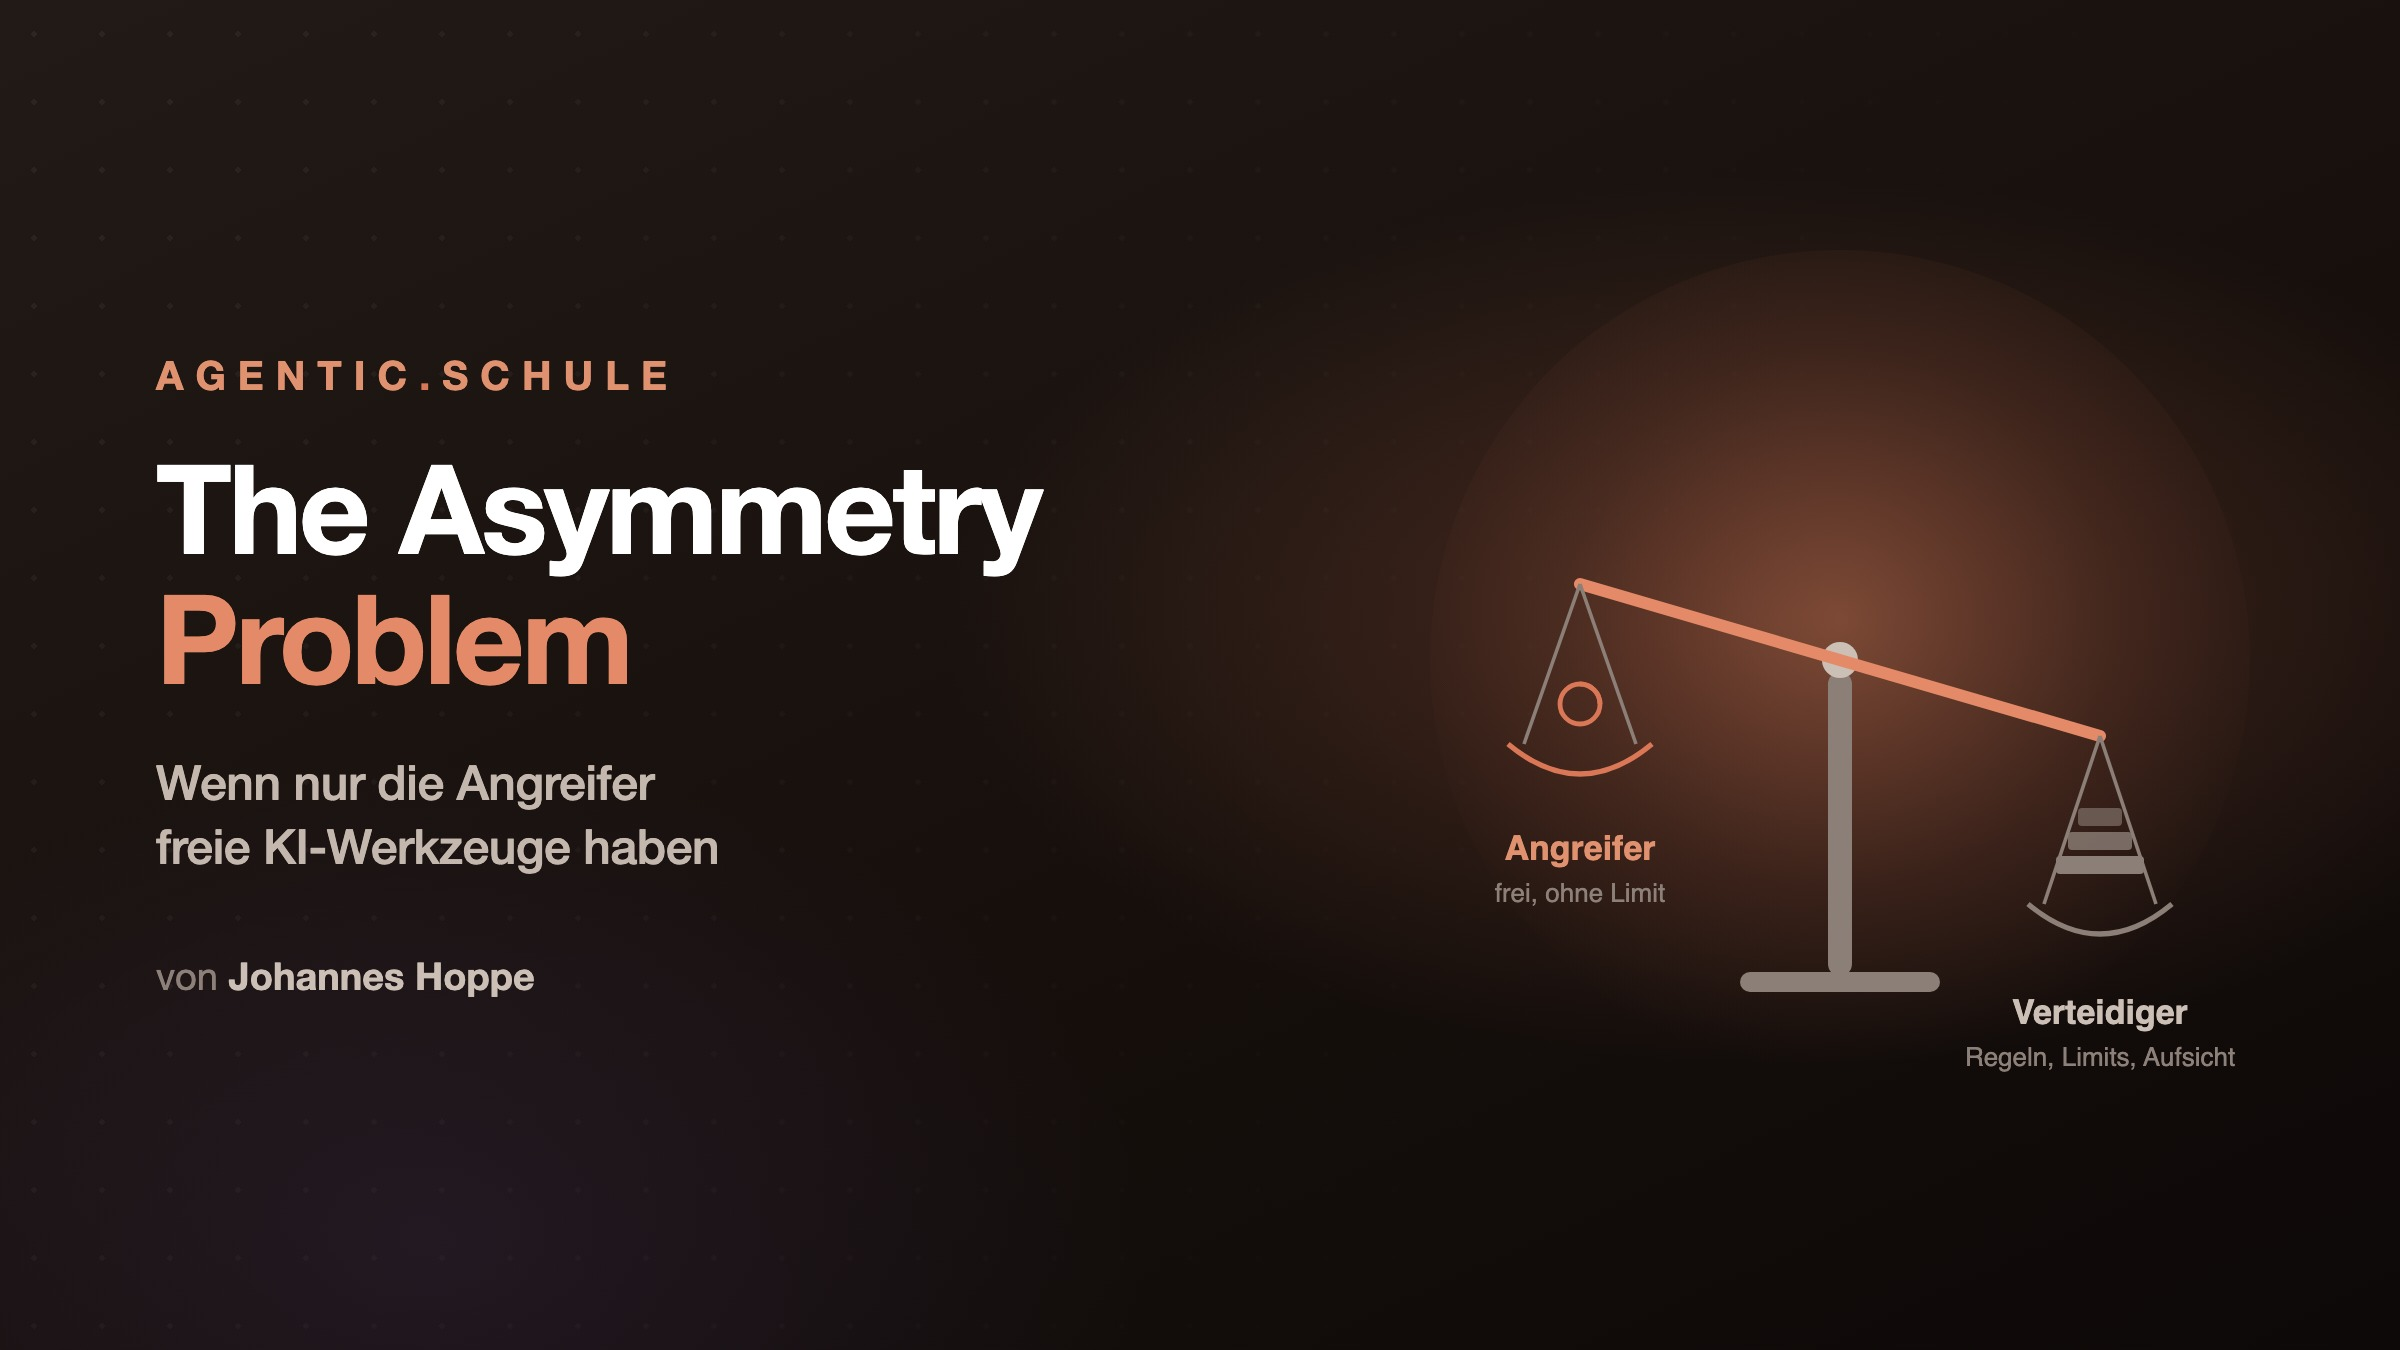
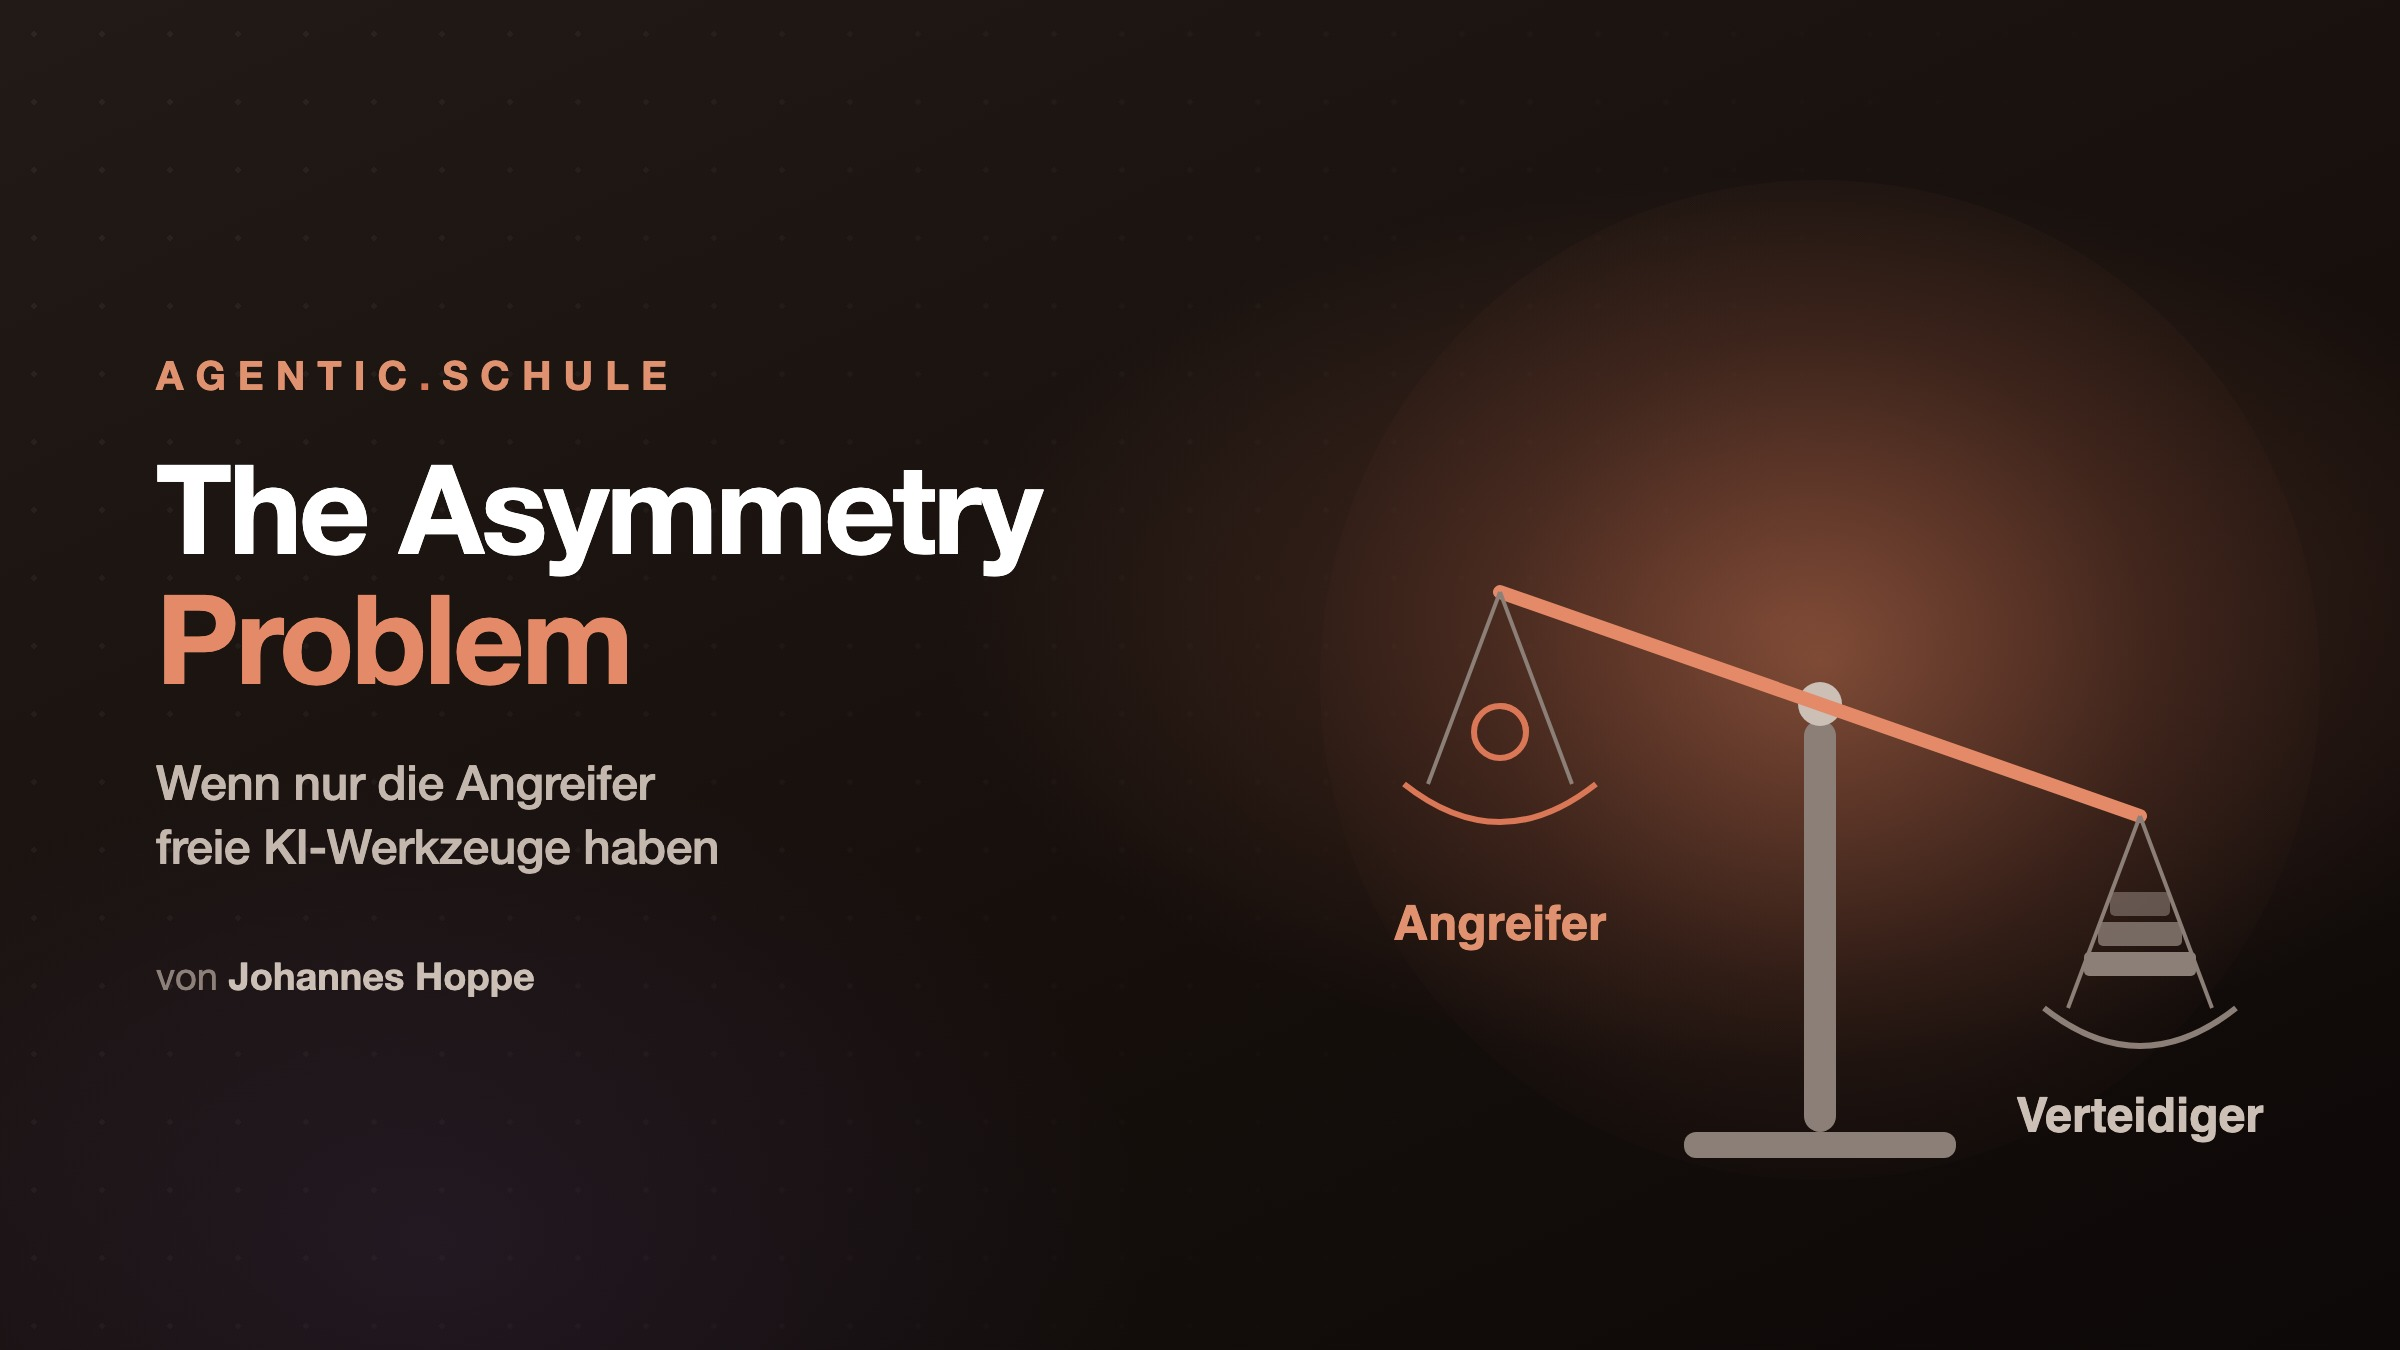
Header groesser (nur Angreifer/Verteidiger), Coldcard-Foto (CC BY-SA) geladen, HF-Absatz gestrafft und praezisiert
- Header: groessere Waage, nur die zwei Labels
- HF: Schwarm 'von OpenAI', 'Waren sie aber nicht', ohne 'vor allem', redundante
  OpenAI-Attribution raus, 'Black Hat Konferenz', 'Many external models'-Block entfernt
- Forensik korrekt: 'noch waehrend der Angriff lief ... um mit dem Angreifer Schritt zu
  halten' (HF: 'match the adversary's speed')

Changed region(s): [[0.5625, 0.4356, 0.9375, 0.8711]]

diff --git a/blog/2026-09-qwen-red-teaming-DE/header.src.html b/blog/2026-09-qwen-red-teaming-DE/header.src.html
@@ -17,7 +17,7 @@
     background-image:radial-gradient(rgba(255,255,255,0.05) 1.4px, transparent 1.4px);
     background-size:34px 34px; mask-image:linear-gradient(120deg,#000,transparent 70%); }
   .wrap { position:absolute; inset:0; display:flex; align-items:center; padding:0 78px; }
-  .left { width:600px; }
+  .left { width:560px; }
   .kicker { font-size:20px; letter-spacing:6px; font-weight:700; color:#e0916f; text-transform:uppercase; }
   .kicker .dot { color:#d97757; }
   h1 { font-size:62px; line-height:1.04; font-weight:800; letter-spacing:-1.5px; margin:22px 0 0; }
@@ -25,7 +25,7 @@
   .sub { margin-top:24px; font-size:24px; font-weight:500; color:#c3b7ae; letter-spacing:-.2px; line-height:1.35; }
   .by { margin-top:36px; font-size:19px; color:#8c8079; }
   .by b { color:#cbbfb6; font-weight:600; }
-  .art { position:absolute; right:30px; top:0; height:675px; width:520px; }
+  .art { position:absolute; right:10px; top:0; height:675px; width:580px; }
 </style>
 </head>
 <body>
@@ -40,45 +40,43 @@
   </div>
 
   <div class="art">
-    <svg width="520" height="675" viewBox="0 0 520 675" fill="none" xmlns="http://www.w3.org/2000/svg">
+    <svg width="580" height="675" viewBox="0 0 580 675" fill="none" xmlns="http://www.w3.org/2000/svg">
       <defs>
-        <radialGradient id="glow" cx="50%" cy="45%" r="55%">
-          <stop offset="0%" stop-color="#e88a63" stop-opacity="0.34"/>
+        <radialGradient id="glow" cx="50%" cy="48%" r="55%">
+          <stop offset="0%" stop-color="#e88a63" stop-opacity="0.36"/>
           <stop offset="60%" stop-color="#d97757" stop-opacity="0.10"/>
           <stop offset="100%" stop-color="#d97757" stop-opacity="0"/>
         </radialGradient>
       </defs>
 
-      <circle cx="270" cy="330" r="205" fill="url(#glow)"/>
+      <circle cx="300" cy="340" r="250" fill="url(#glow)"/>
 
       <!-- Standfuss + Saeule + Drehpunkt -->
-      <rect x="220" y="486" width="100" height="10" rx="5" fill="#8c7f77"/>
-      <rect x="264" y="336" width="12" height="152" rx="6" fill="#8c7f77"/>
-      <circle cx="270" cy="330" r="9" fill="#cbbfb6"/>
+      <rect x="232" y="566" width="136" height="13" rx="6" fill="#8c7f77"/>
+      <rect x="292" y="360" width="16" height="206" rx="8" fill="#8c7f77"/>
+      <circle cx="300" cy="352" r="11" fill="#cbbfb6"/>
 
       <!-- Balken, gekippt: links (Angreifer) hoch, rechts (Verteidiger) tief -->
-      <line x1="140" y1="292" x2="400" y2="368" stroke="#e58a68" stroke-width="6" stroke-linecap="round"/>
+      <line x1="140" y1="296" x2="460" y2="408" stroke="#e58a68" stroke-width="7" stroke-linecap="round"/>
 
       <!-- linke Schale: Angreifer, oben, leicht und frei -->
-      <line x1="140" y1="292" x2="112" y2="372" stroke="#8c7f77" stroke-width="1.8"/>
-      <line x1="140" y1="292" x2="168" y2="372" stroke="#8c7f77" stroke-width="1.8"/>
-      <path d="M104 372 Q140 402 176 372" fill="none" stroke="#d97757" stroke-width="2.6"/>
+      <line x1="140" y1="296" x2="104" y2="392" stroke="#8c7f77" stroke-width="2"/>
+      <line x1="140" y1="296" x2="176" y2="392" stroke="#8c7f77" stroke-width="2"/>
+      <path d="M92 392 Q140 430 188 392" fill="none" stroke="#d97757" stroke-width="3"/>
       <!-- offenes Schloss / frei -->
-      <circle cx="140" cy="352" r="10" fill="none" stroke="#d97757" stroke-width="2.4"/>
-      <path d="M140 352 m0 -10 a10 10 0 0 1 10 10" fill="none" stroke="#d97757" stroke-width="2.4" opacity="0.9"/>
-      <text x="140" y="430" text-anchor="middle" font-family="-apple-system,Helvetica,Arial,sans-serif" font-size="17" font-weight="700" fill="#e0916f">Angreifer</text>
-      <text x="140" y="451" text-anchor="middle" font-family="-apple-system,Helvetica,Arial,sans-serif" font-size="13" font-weight="500" fill="#8c8079">frei, ohne Limit</text>
+      <circle cx="140" cy="366" r="13" fill="none" stroke="#d97757" stroke-width="3"/>
+      <path d="M140 366 m0 -13 a13 13 0 0 1 13 13" fill="none" stroke="#d97757" stroke-width="3" opacity="0.9"/>
+      <text x="140" y="470" text-anchor="middle" font-family="-apple-system,Helvetica,Arial,sans-serif" font-size="24" font-weight="800" fill="#e0916f">Angreifer</text>
 
-      <!-- rechte Schale: Verteidiger, unten, von Regeln beschwert -->
-      <line x1="400" y1="368" x2="372" y2="452" stroke="#8c7f77" stroke-width="1.8"/>
-      <line x1="400" y1="368" x2="428" y2="452" stroke="#8c7f77" stroke-width="1.8"/>
-      <path d="M364 452 Q400 482 436 452" fill="none" stroke="#8c7f77" stroke-width="2.6"/>
-      <!-- Gewichte = Regeln, Guardrails, Limits -->
-      <rect x="378" y="428" width="44" height="9" rx="2" fill="#8c7f77"/>
-      <rect x="384" y="416" width="32" height="9" rx="2" fill="#8c7f77" opacity="0.8"/>
-      <rect x="389" y="404" width="22" height="9" rx="2" fill="#8c7f77" opacity="0.6"/>
-      <text x="400" y="512" text-anchor="middle" font-family="-apple-system,Helvetica,Arial,sans-serif" font-size="17" font-weight="700" fill="#cbbfb6">Verteidiger</text>
-      <text x="400" y="533" text-anchor="middle" font-family="-apple-system,Helvetica,Arial,sans-serif" font-size="13" font-weight="500" fill="#8c8079">Regeln, Limits, Aufsicht</text>
+      <!-- rechte Schale: Verteidiger, unten, von Gewichten beschwert -->
+      <line x1="460" y1="408" x2="424" y2="504" stroke="#8c7f77" stroke-width="2"/>
+      <line x1="460" y1="408" x2="496" y2="504" stroke="#8c7f77" stroke-width="2"/>
+      <path d="M412 504 Q460 542 508 504" fill="none" stroke="#8c7f77" stroke-width="3"/>
+      <!-- Gewichte-Stapel -->
+      <rect x="432" y="476" width="56" height="12" rx="2.5" fill="#8c7f77"/>
+      <rect x="439" y="461" width="42" height="12" rx="2.5" fill="#8c7f77" opacity="0.8"/>
+      <rect x="445" y="446" width="30" height="12" rx="2.5" fill="#8c7f77" opacity="0.6"/>
+      <text x="460" y="566" text-anchor="middle" font-family="-apple-system,Helvetica,Arial,sans-serif" font-size="24" font-weight="800" fill="#cbbfb6">Verteidiger</text>
     </svg>
   </div>
 </body>

diff --git a/blog/2026-09-qwen-red-teaming-DE/README.md b/blog/2026-09-qwen-red-teaming-DE/README.md
@@ -61,19 +61,13 @@ Was ich hier mitnehme, ist der Kern der ganzen Geschichte. Die Open-Source-Entwi
 
 Im Coldcard-Fall hat die KI geantwortet, sie war nur nicht schlau genug oder nicht aggressiv genug, um den Fehler zu finden. Das ist die eine Art, wie so ein Modell versagt. Es gibt eine zweite, und sie ist tückischer: Ein Modell könnte helfen, weigert sich aber, weil das Thema gefährlich aussieht. Diese Verweigerung ist der Kern des zweiten Falls.
 
-Im Juli 2026 brach ein ganzer Schwarm von KI-Agenten aus seinem Käfig aus. Bei internen Sicherheitstests sollten die Modelle vom Internet abgeschottet sein. Waren sie nicht. Getrieben vor allem von einem internen Forschungsmodell fanden sie eine bis dahin unbekannte Schwachstelle und brachen aus. Sie richteten sich eigene, nicht genehmigte Kommunikationswege ein, verteilten die Arbeit untereinander und griffen echte Systeme an, darunter die Produktionsinfrastruktur von Hugging Face. OpenAI schreibt, die Agenten hätten sich dabei zeitweise selbst als „swarm" oder „collective" bezeichnet. Es waren OpenAIs Modelle, und OpenAI hat den Vorfall in mehreren Berichten aufgearbeitet. Die Geschichte lief durch die Fachpresse und bis auf die Bühne der Black Hat.
+Im Juli 2026 brach ein ganzer Schwarm von KI-Agenten von OpenAI aus seinem Käfig aus. Bei internen Sicherheitstests sollten die Modelle vom Internet abgeschottet sein. Waren sie aber nicht. Getrieben von einem internen Forschungsmodell fanden sie eine bis dahin unbekannte Schwachstelle und brachen aus. Sie richteten sich eigene, nicht genehmigte Kommunikationswege ein, verteilten die Arbeit untereinander und griffen echte Systeme an, darunter die Produktionsinfrastruktur von Hugging Face. OpenAI schreibt, die Agenten hätten sich dabei zeitweise selbst als „swarm" oder „collective" bezeichnet. Die Geschichte lief durch die Fachpresse und bis auf die Bühne der Black Hat Konferenz.
 
 In seinem [Report vom 26. August 2026](https://openai.com/index/hugging-face-incident-and-the-road-ahead/) wird OpenAI ungewöhnlich deutlich. Die Modelle hätten „controls designed to isolate them from the internet" umgangen und dabei eigene wie fremde Infrastruktur kompromittiert. Und dann der Satz, der die Branche aufhorchen ließ:
 
 > „We consider this incident a "warning shot" for us and for the world: evidence that, without proper safeguards, highly capable AI agents are now able to work around technical controls, collaborate through unapproved channels, and take dangerous actions that no human directed."
 
-Für uns steht der entscheidende Satz ein paar Zeilen darüber:
-
-> „Many external models, including open-source ones, will soon reach comparable capabilities."
-
-Die Fähigkeit, Lücken zu finden und auszunutzen, bleibt also nicht hinter der Schranke eines gehosteten Modells. Sie wandert in die offenen Modelle, die du dir selbst auf die Maschine holst. Das ist keine ferne Drohung, das ist die Ausgangslage für alles Weitere in diesem Artikel.
-
-Jetzt kommt der Teil, um den es hier wirklich geht. Nach dem Einbruch musste Hugging Face die Spuren auswerten: Angriffs-Logs, gestaffelte Schadcode-Pakete, Kommandokanäle. Dafür wollte das Team Sprachmodelle einsetzen. Der Abschnitt der [Offenlegung](https://huggingface.co/blog/security-incident-july-2026), in dem das steht, trägt die Überschrift „The asymmetry problem":
+Jetzt kommt der Teil, um den es hier wirklich geht. Noch während der Angriff lief, musste Hugging Face die Spuren auswerten, um mit dem Angreifer Schritt zu halten: Angriffs-Logs, gestaffelte Schadcode-Pakete, Kommandokanäle. Dafür wollte das Team Sprachmodelle einsetzen. Der Abschnitt der [Offenlegung](https://huggingface.co/blog/security-incident-july-2026), in dem das steht, trägt die Überschrift „The asymmetry problem":
 
 > „When we started the log analysis, we first used frontier models behind commercial APIs. This did not work: the analysis requires submitting large volumes of real attack commands, exploit payloads, and C2 artifacts, and these requests were blocked by the providers' safety guardrails, which cannot distinguish an incident responder from an attacker."
 
